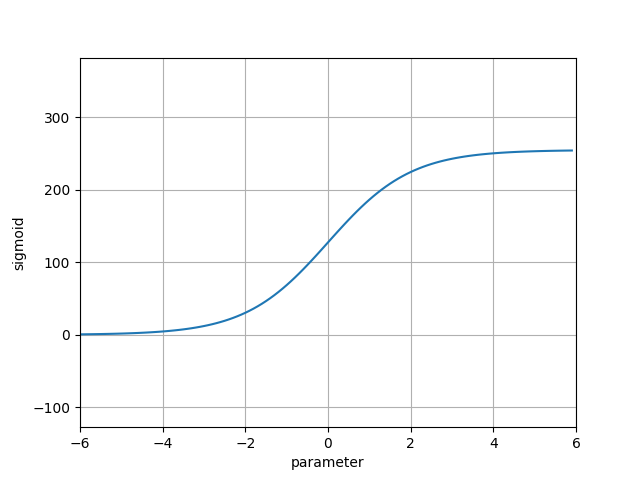
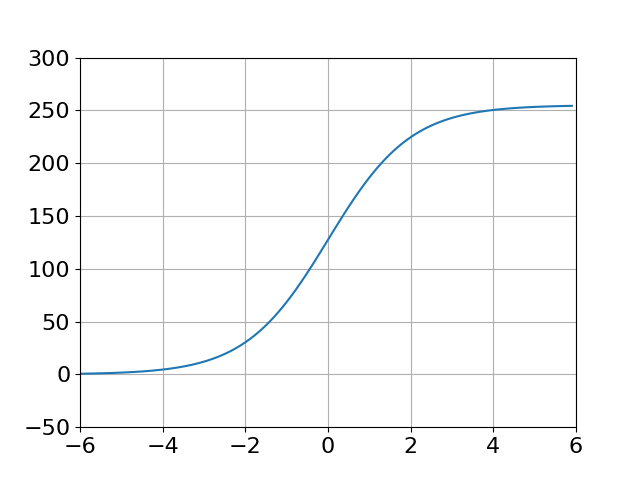
[fix] graph
fix graph

diff --git a/make_graph.py b/make_graph.py
@@ -233,12 +233,11 @@ x = np.arange(-6, 6, 0.1)
 # sig = sig + [12] * 20
 # print(sig)
 plt.plot(x, sigmoid(x)*255, linestyle = "-")
-# plt.title("Half life")
 plt.grid()
-# plt.ylim([-0.5,1.5])
-plt.ylim([-127.5,382.5])
+plt.ylim([-50,300])
 plt.xlim([-6,6])
-plt.xlabel("parameter")
-plt.ylabel("sigmoid")
+plt.tick_params(labelsize=16)
+# plt.ylabel("$\sigma_k$", fontsize=18)
+# plt.xlabel("$p_k$", fontsize=18)
 curr_gragh_path = "{}.png".format("sigmoid255")
 plt.savefig(curr_gragh_path)
